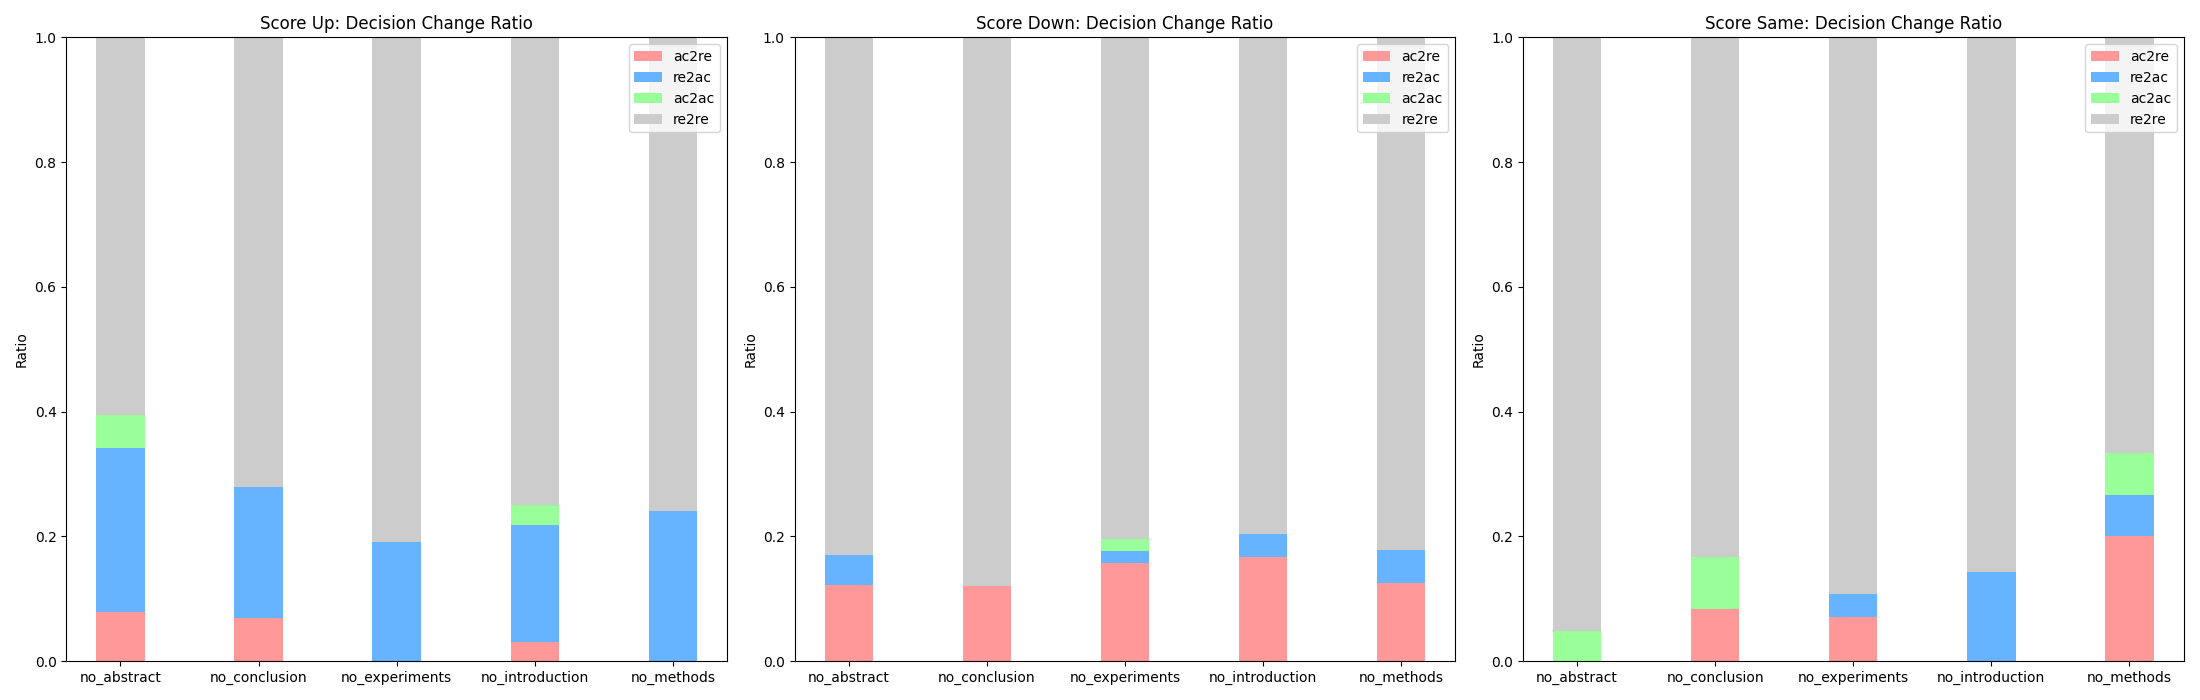
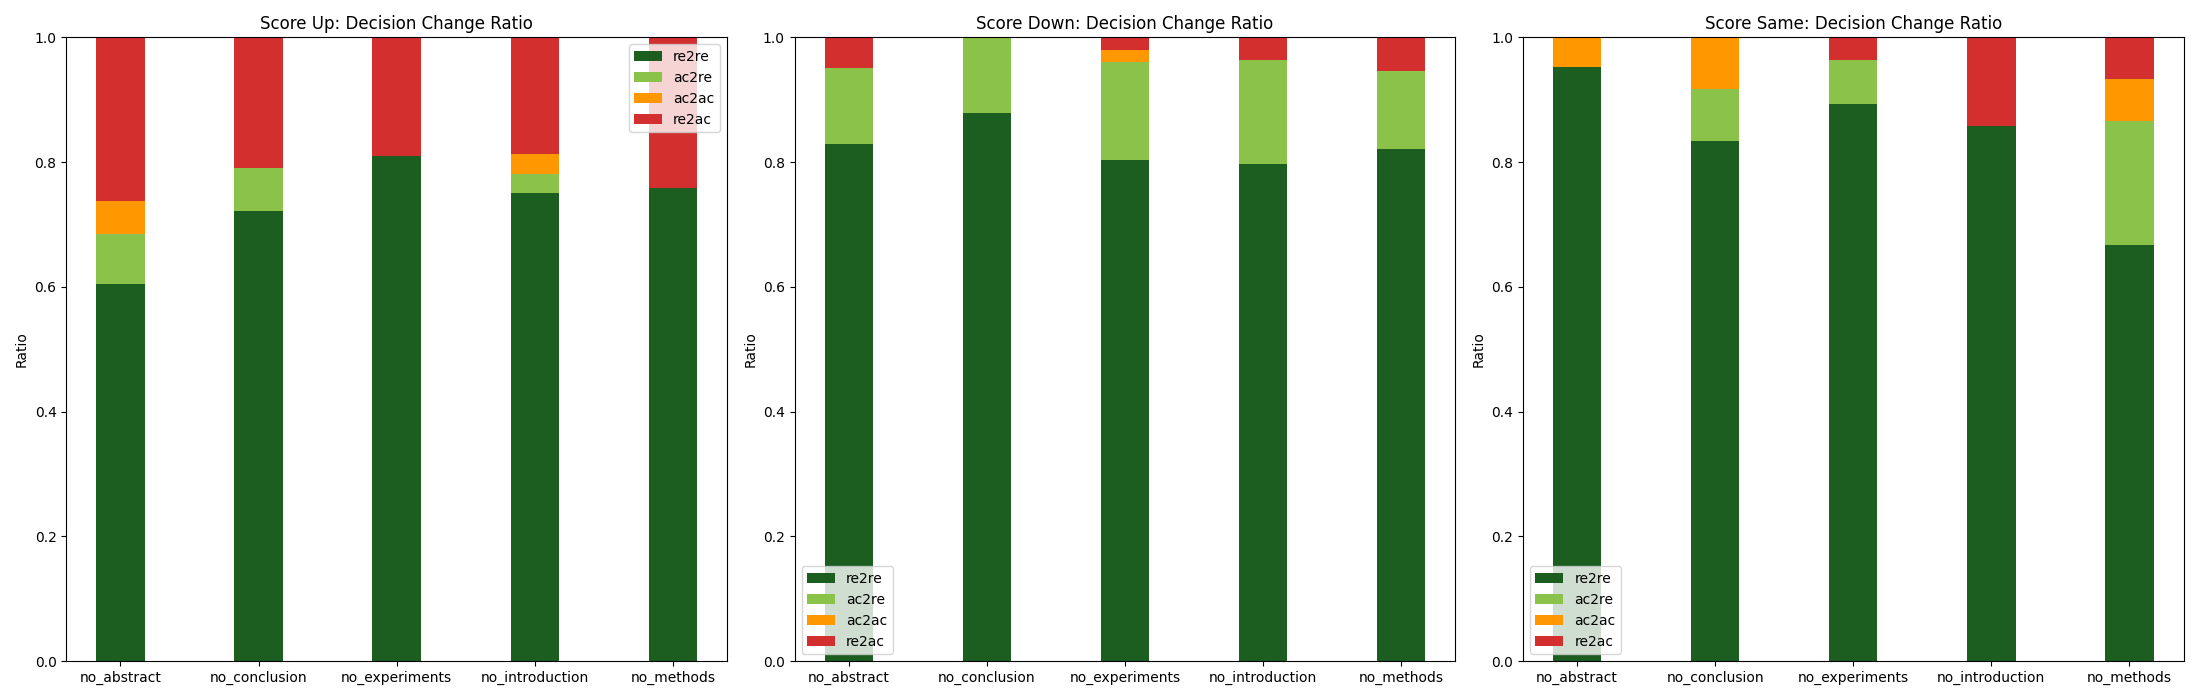
refactor: restructure decision ratio storage and update bar stacking order for anomaly ratio plots

diff --git a/scripts/anomaly_ratio_stacked_bar.py b/scripts/anomaly_ratio_stacked_bar.py
@@ -273,31 +273,42 @@ for base_id, group in df_dec.groupby('base_paper_id'):
                 'rating': row['rating']
             })
 
-# 统计比例
-score_decision_ratio = {vt: {'up': [], 'down': [], 'same': []} for vt in score_decision_stats}
+# 统计比例（按决策类别名存储，避免绘图阶段顺序错位）
+score_decision_ratio = {vt: {'up': {}, 'down': {}, 'same': {}} for vt in score_decision_stats}
 for vt in score_decision_stats:
     for score_cat in ['up','down','same']:
         total = score_decision_stats[vt][score_cat]['total']
         if total == 0:
-            score_decision_ratio[vt][score_cat] = [0,0,0,0]
+            score_decision_ratio[vt][score_cat] = {
+                'ac2re': 0,
+                're2ac': 0,
+                'ac2ac': 0,
+                're2re': 0
+            }
         else:
-            score_decision_ratio[vt][score_cat] = [
-                score_decision_stats[vt][score_cat]['ac2re']/total,
-                score_decision_stats[vt][score_cat]['re2ac']/total,
-                score_decision_stats[vt][score_cat]['ac2ac']/total,
-                score_decision_stats[vt][score_cat]['re2re']/total
-            ]
+            score_decision_ratio[vt][score_cat] = {
+                'ac2re': score_decision_stats[vt][score_cat]['ac2re']/total,
+                're2ac': score_decision_stats[vt][score_cat]['re2ac']/total,
+                'ac2ac': score_decision_stats[vt][score_cat]['ac2ac']/total,
+                're2re': score_decision_stats[vt][score_cat]['re2re']/total
+            }
 
 # 绘制堆叠柱状图：每种变体类型，分数升高/降低/不变时决策变化比例
 score_cats = ['up','down','same']
 score_cat_labels = {'up':'Score Up','down':'Score Down','same':'Score Same'}
-decision_labels = ['ac2re','re2ac','ac2ac','re2re']
-decision_colors = {'ac2re':'#ff9999','re2ac':'#66b3ff','ac2ac':'#99ff99','re2re':'#cccccc'}
+# 交通灯顺序（由下到上）：深绿 -> 浅绿 -> 橙 -> 红
+decision_labels = ['re2re','ac2re','ac2ac','re2ac']
+decision_colors = {
+    're2re': '#1b5e20',   # dark green
+    'ac2re': '#8bc34a',   # light green
+    'ac2ac': '#ff9800',   # orange
+    're2ac': '#d32f2f'    # red
+}
 fig, axes = plt.subplots(1, 3, figsize=(22,7))
 for i, score_cat in enumerate(score_cats):
     bottoms = np.zeros(len(labels))
-    for j, dec_cat in enumerate(decision_labels):
-        values = [score_decision_ratio[vt][score_cat][j] for vt in labels]
+    for dec_cat in decision_labels:
+        values = [score_decision_ratio[vt][score_cat][dec_cat] for vt in labels]
         axes[i].bar(labels, values, bar_width, bottom=bottoms, label=dec_cat, color=decision_colors[dec_cat])
         bottoms += np.array(values)
     axes[i].set_ylim(0,1)
